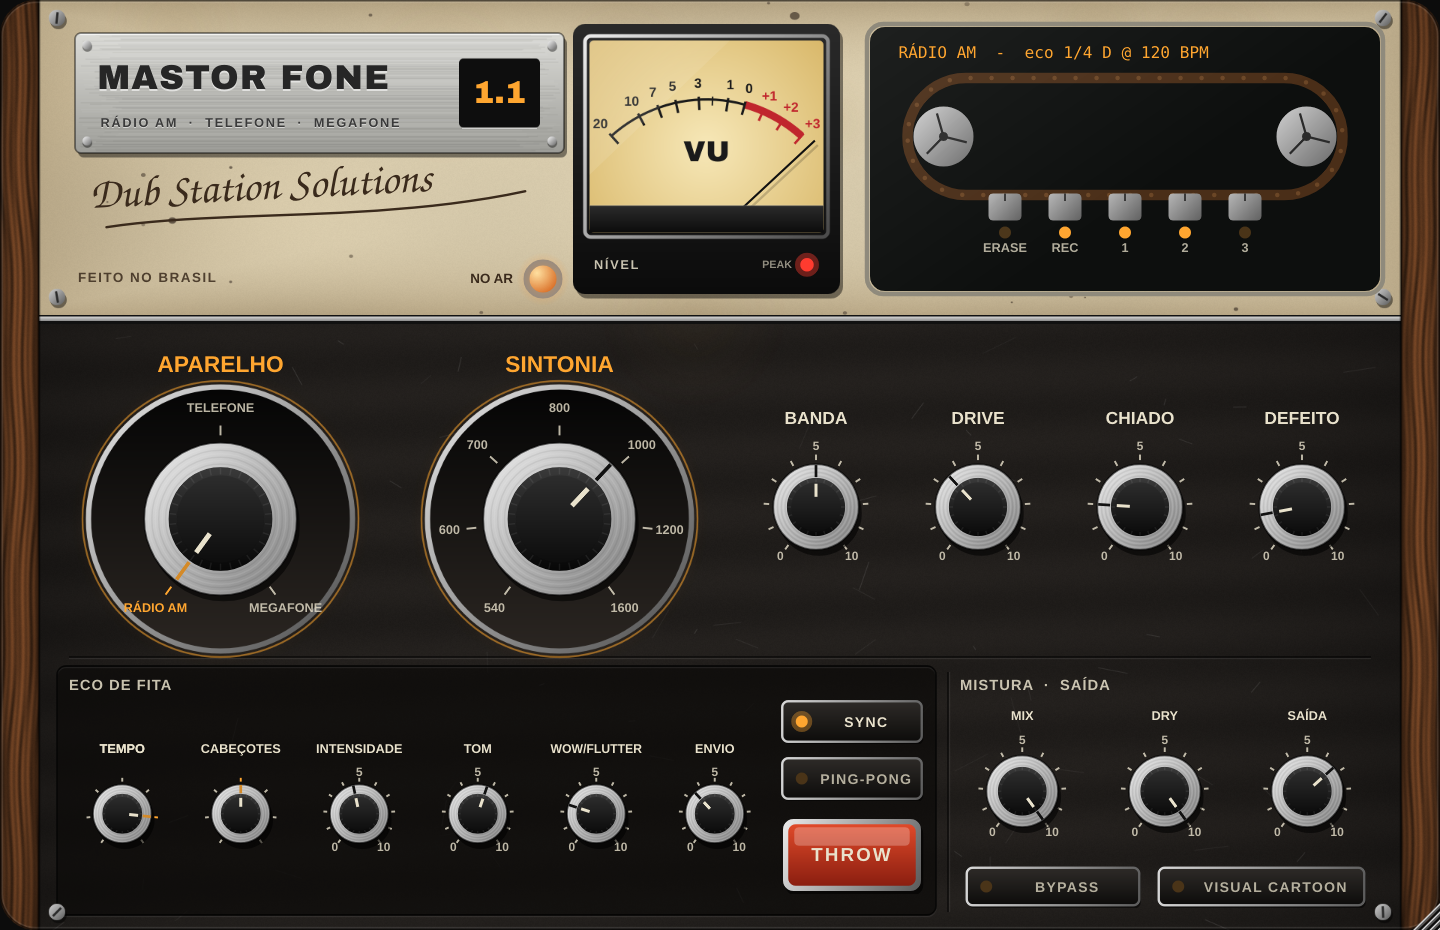
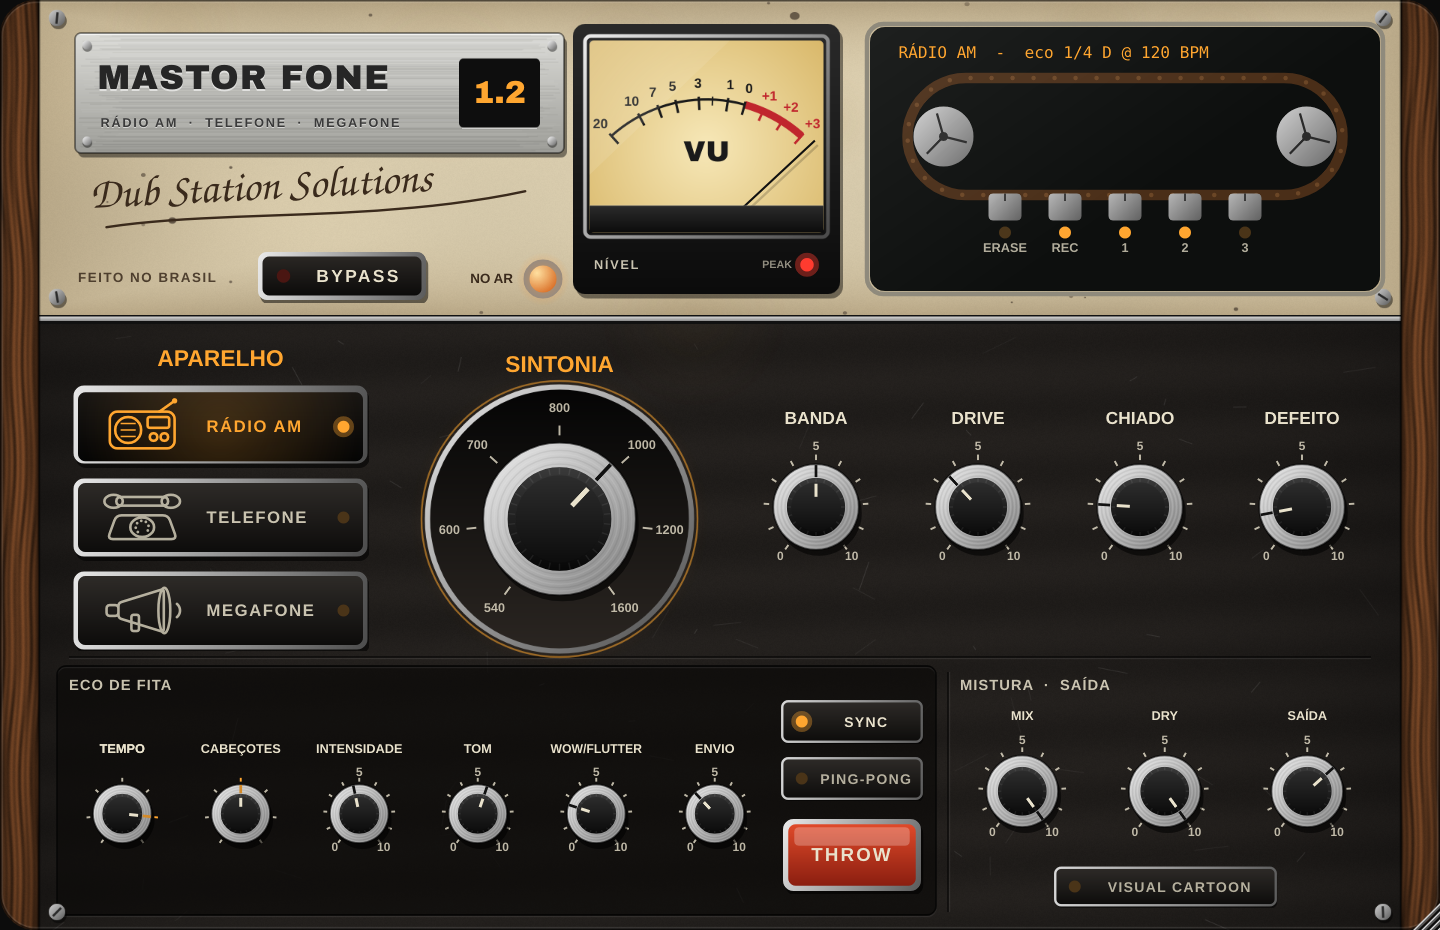
Mastor Fone 1.2: teclas dos aparelhos e BYPASS em destaque no visual Dub Station
No visual Dub Station, o seletor giratório de aparelho virou três teclas
clicáveis com o desenho de cada aparelho; a SINTONIA continua no dial de
rádio antigo, e o BYPASS foi para o painel de cima, acendendo vermelho.

Claude-Session: https://claude.ai/code/session_01DJAeyXvUbq8XtquW6CP987

diff --git a/site/index.html b/site/index.html
@@ -422,7 +422,7 @@
         <article class="card">
           <img class="shot" src="img/mastorfone.jpg" alt="Interface do Mastor Fone: gabinete de rádio de madeira em estilo cartoon, dial de ondas médias, desenhos de rádio, telefone e megafone, e eco de fita com bobinas" width="1400" height="786" loading="lazy">
           <div class="body">
-            <h3>Mastor Fone <small>1.1</small></h3>
+            <h3>Mastor Fone <small>1.2</small></h3>
             <p>Efeito para voz que imita rádio AM, telefone antigo e megafone, com o mesmo eco de fita do Big Knob. Dub Station Solutions.</p>
             <ul>
               <li>Rádio AM com válvula e chiado, telefone de central antiga e megafone estourado</li>

diff --git a/MastorFone/Source/StationPanel.cpp b/MastorFone/Source/StationPanel.cpp
@@ -101,6 +101,32 @@ void StationLookAndFeel::drawRotarySlider (Graphics& g, int x, int y, int w, int
 
 void StationLookAndFeel::drawToggleButton (Graphics& g, ToggleButton& b, bool over, bool down)
 {
+    if ((bool) b.getProperties()["big"])
+    {
+        // tecla grande de BYPASS: acende vermelho quando o efeito está desligado
+        const bool on = b.getToggleState();
+        auto r = b.getLocalBounds().toFloat().reduced (2.0f);
+        g.setColour (Colours::black.withAlpha (0.5f));
+        g.fillRoundedRectangle (r.translated (1.5f, 3.0f), 6.0f);
+        g.setGradientFill (ColourGradient (Colour (0xffeaeaea), r.getX(), r.getY(), Colour (0xff5a5a5a), r.getRight(), r.getBottom(), false));
+        g.fillRoundedRectangle (r, 6.0f);
+        auto cap = r.reduced (3.0f).translated (0, down ? 1.0f : 0.0f);
+        g.setGradientFill (ColourGradient (Colour (on ? 0xffe0442a : (over ? 0xff36322e : 0xff2a2724)), 0, cap.getY(),
+                                           Colour (on ? 0xff7a1a0e : 0xff0c0b0a), 0, cap.getBottom(), false));
+        g.fillRoundedRectangle (cap, 4.5f);
+        if (on)
+        {
+            g.setColour (Colour (0x55ff6a3a));
+            g.drawRoundedRectangle (r.expanded (2.0f), 8.0f, 3.0f);
+        }
+        const auto lp = Point<float> (cap.getX() + 14.0f, cap.getCentreY());
+        g.setColour (on ? Colour (0xffffd0a0) : Colour (0xff4a1612));
+        g.fillEllipse (lp.x - 4.5f, lp.y - 4.5f, 9, 9);
+        g.setColour (cream);
+        g.setFont (bold (13.0f).withExtraKerningFactor (0.12f));
+        g.drawText (b.getButtonText(), cap.withTrimmedLeft (22.0f), Justification::centred);
+        return;
+    }
     // tecla de baquelite com lâmpada âmbar, como as dos cabeçotes do Dub Station
     const bool on = b.getToggleState();
     auto r = b.getLocalBounds().toFloat().reduced (1.5f);
@@ -151,14 +177,137 @@ void StationLookAndFeel::drawButtonText (Graphics& g, TextButton& b, bool, bool 
 }
 
 //==============================================================================
+namespace
+{
+// desenho dos aparelhos em traço creme, como serigrafia no painel
+void drawLineIcon (Graphics& g, int which, Rectangle<float> r, Colour c)
+{
+    const auto o = r.getCentre();
+    const float s = jmin (r.getWidth() / 80.0f, r.getHeight() / 44.0f);
+    auto P = [&] (float x, float y) { return Point<float> (o.x + x * s, o.y + y * s); };
+    auto R = [&] (float x, float y, float w, float h) { return Rectangle<float> (o.x + x * s, o.y + y * s, w * s, h * s); };
+    const PathStrokeType st (2.0f * s + 0.3f, PathStrokeType::curved, PathStrokeType::rounded);
+    g.setColour (c);
+    Path p;
+    if (which == 0)
+    {
+        p.addRoundedRectangle (R (-30, -14, 60, 34), 7.0f * s);
+        p.addEllipse (R (-25, -9, 24, 24));
+        p.addRoundedRectangle (R (5, -9, 20, 10), 2.0f * s);
+        p.addEllipse (R (7, 6, 7, 7)); p.addEllipse (R (17, 6, 7, 7));
+        p.startNewSubPath (P (16, -14)); p.lineTo (P (30, -24));
+        g.strokePath (p, st);
+        for (int k = 0; k < 3; ++k) g.drawLine (Line<float> (P (-20, -3 + (float) k * 6), P (-6, -3 + (float) k * 6)), 1.4f * s);
+        g.fillEllipse (Rectangle<float> (5 * s, 5 * s).withCentre (P (30, -24)));
+    }
+    else if (which == 1)
+    {
+        Path base;
+        base.startNewSubPath (P (-24, -2)); base.lineTo (P (24, -2)); base.lineTo (P (32, 20)); base.lineTo (P (-32, 20)); base.closeSubPath();
+        p.addPath (base.createPathWithRoundedCorners (5.0f * s));
+        p.addEllipse (R (-11, 0, 22, 18));
+        p.addRoundedRectangle (R (-24, -19, 48, 8), 4.0f * s);
+        p.addEllipse (R (-35, -21, 17, 12)); p.addEllipse (R (18, -21, 17, 12));
+        g.strokePath (p, st);
+        for (int k = 0; k < 7; ++k)
+            g.fillEllipse (Rectangle<float> (2.6f * s, 2.6f * s).withCentre (P (0, 9).getPointOnCircumference (6.0f * s, -2.4f + (float) k * 0.75f)));
+    }
+    else
+    {
+        Path cone;
+        cone.startNewSubPath (P (-22, -7)); cone.lineTo (P (20, -20)); cone.lineTo (P (20, 20)); cone.lineTo (P (-22, 7)); cone.closeSubPath();
+        p.addPath (cone.createPathWithRoundedCorners (3.0f * s));
+        p.addEllipse (R (15, -21, 11, 42));
+        p.addRoundedRectangle (R (-33, -5, 11, 10), 3.0f * s);
+        p.addRoundedRectangle (R (-10, 4, 7, 15), 2.0f * s);
+        p.addCentredArc (o.x + 27.0f * s, o.y, 8.0f * s, 8.0f * s, 0.0f, 0.7f, 2.45f, true);
+        g.strokePath (p, st);
+    }
+}
+} // namespace
+
+StationModeKeys::StationModeKeys (RangedAudioParameter& p)
+    : att (p, [this] (float v) { mode = jlimit (0, 2, roundToInt (v)); repaint(); })
+{
+    att.sendInitialUpdate();
+    setMouseCursor (MouseCursor::PointingHandCursor);
+}
+
+Rectangle<float> StationModeKeys::key (int i) const
+{
+    auto r = getLocalBounds().toFloat().withTrimmedTop (32.0f);
+    const float gap = 8.0f, h = (r.getHeight() - 2 * gap) / 3.0f;
+    return { r.getX(), r.getY() + (float) i * (h + gap), r.getWidth(), h };
+}
+
+void StationModeKeys::mouseDown (const MouseEvent& e)
+{
+    for (int i = 0; i < 3; ++i)
+        if (key (i).contains (e.position))
+            att.setValueAsCompleteGesture ((float) i);
+}
+
+void StationModeKeys::mouseMove (const MouseEvent& e)
+{
+    int h = -1;
+    for (int i = 0; i < 3; ++i) if (key (i).contains (e.position)) h = i;
+    if (h != hover) { hover = h; repaint(); }
+}
+
+void StationModeKeys::mouseExit (const MouseEvent&) { hover = -1; repaint(); }
+
+void StationModeKeys::paint (Graphics& g)
+{
+    g.setColour (amber);
+    g.setFont (bold (17.0f));
+    g.drawText ("APARELHO", getLocalBounds().toFloat().withHeight (30.0f), Justification::centred);
+
+    static const char* names[] = { "R\xc3\x81" "DIO AM", "TELEFONE", "MEGAFONE" };
+    for (int i = 0; i < 3; ++i)
+    {
+        const bool on = i == mode, over = i == hover;
+        auto r = key (i).reduced (1.0f);
+        // sombra + aro cromado
+        g.setColour (Colours::black.withAlpha (0.55f));
+        g.fillRoundedRectangle (r.translated (1.5f, 3.0f), 7.0f);
+        g.setGradientFill (ColourGradient (Colour (0xffe8e8e8), r.getX(), r.getY(), Colour (0xff4c4c4c), r.getRight(), r.getBottom(), false));
+        g.fillRoundedRectangle (r, 7.0f);
+        // tecla de baquelite (afundada quando escolhida)
+        auto cap = r.reduced (3.0f).translated (0, on ? 1.5f : 0.0f);
+        g.setGradientFill (ColourGradient (Colour (on ? 0xff1a1714 : (over ? 0xff3a3633 : 0xff2e2b28)), 0, cap.getY(),
+                                           Colour (on ? 0xff050505 : 0xff0d0c0b), 0, cap.getBottom(), false));
+        g.fillRoundedRectangle (cap, 5.0f);
+        if (on)
+        {
+            g.setGradientFill (ColourGradient (amber.withAlpha (0.20f), cap.getCentreX(), cap.getCentreY(), amber.withAlpha (0.0f), cap.getRight(), cap.getCentreY(), true));
+            g.fillRoundedRectangle (cap, 5.0f);
+        }
+        // desenho do aparelho + nome + lâmpada
+        auto iconArea = cap.withWidth (cap.getHeight() * 1.6f).reduced (8.0f, 6.0f).translated (6.0f, 0);
+        drawLineIcon (g, i, iconArea, on ? amber : cream.withAlpha (over ? 0.95f : 0.75f));
+        auto txt = cap.withTrimmedLeft (iconArea.getRight() - cap.getX() + 14.0f).withTrimmedRight (22.0f);
+        g.setColour (on ? amber : cream.withAlpha (0.85f));
+        g.setFont (bold (12.5f).withExtraKerningFactor (0.08f));
+        g.drawText (String::fromUTF8 (names[i]), txt, Justification::centredLeft);
+        const auto lp = Point<float> (cap.getRight() - 13.0f, cap.getCentreY());
+        if (on)
+        {
+            g.setColour (amber.withAlpha (0.35f));
+            g.fillEllipse (lp.x - 7, lp.y - 7, 14, 14);
+        }
+        g.setColour (on ? amber : lampOff);
+        g.fillEllipse (lp.x - 4, lp.y - 4, 8, 8);
+    }
+}
+
+//==============================================================================
 StationPanel::StationPanel (RadioFoneProcessor& p)
-    : proc (p), throwBtn ("THROW", p.apvts.getParameter ("throw"))
+    : proc (p), modeKeys (*p.apvts.getParameter ("mode")), throwBtn ("THROW", p.apvts.getParameter ("throw"))
 {
     setLookAndFeel (&lnf);
     setSize (kW, kH);
 
-    setupKnob (mode,   "mode",   "APARELHO", 0);
-    mode.slider.getProperties().set ("scaleLabels", String::fromUTF8 ("RÁDIO AM|TELEFONE|MEGAFONE"));
+    addAndMakeVisible (modeKeys);
     setupKnob (tune,   "tune",   "SINTONIA", 0);
     tune.slider.getProperties().set ("scaleLabels", "540|600|700|800|1000|1200|1600");
     setupKnob (band,   "band",   "BANDA", 1);
@@ -180,6 +329,7 @@ StationPanel::StationPanel (RadioFoneProcessor& p)
     setupToggle (echoSync, "echoSync", "SYNC");
     setupToggle (echoPP, "echoPP", "PING-PONG");
     setupToggle (bypassBtn, "bypass", "BYPASS");
+    bypassBtn.button.getProperties().set ("big", true);
     addAndMakeVisible (throwBtn);
     throwBtn.setTooltip ("Segure para jogar a voz no eco");
 
@@ -260,7 +410,7 @@ void StationPanel::resized()
     auto rowB = rows;
 
     // linha A: APARELHO e SINTONIA gigantes, depois os quatro médios
-    place (mode, rowA.removeFromLeft (226), 34);
+    modeKeys.setBounds (rowA.removeFromLeft (226).reduced (14, 2));
     place (tune, rowA.removeFromLeft (226), 34);
     const int wm = 108;
     rowA.removeFromLeft ((rowA.getWidth() - 4 * wm) / 2);
@@ -294,9 +444,9 @@ void StationPanel::resized()
     const int ws = ra.getWidth() / 3;
     for (auto* k : { &mix, &dry, &out })
         place (*k, ra.removeFromLeft (ws), 15);
-    bottom = bottom.withSizeKeepingCentre (268, 28);
-    bypassBtn.button.setBounds (bottom.removeFromLeft (118));
-    skinBtn.setBounds (bottom.removeFromRight (140));
+    skinBtn.setBounds (bottom.withSizeKeepingCentre (150, 28));
+    // BYPASS grande no painel de cima, entre "FEITO NO BRASIL" e a lâmpada NO AR
+    bypassBtn.button.setBounds ((int) plateArea.getX() + 120, topPanel.getBottom() - 46, 116, 36);
 
     renderBackground();
 }
@@ -304,14 +454,16 @@ void StationPanel::resized()
 //==============================================================================
 String StationPanel::statusText()
 {
-    Knob* all[] = { &mode, &tune, &band, &drive, &noise, &defect, &echoDiv, &echoMs, &echoHeads,
+    if (modeKeys.getHover() >= 0)
+        return String::fromUTF8 ("APARELHO:  clique para escolher");
+    Knob* all[] = { &tune, &band, &drive, &noise, &defect, &echoDiv, &echoMs, &echoHeads,
                     &echoFb, &echoTone, &echoWow, &echoSend, &mix, &dry, &out };
     for (auto* k : all)
         if (k->slider.isVisible() && k->slider.isMouseOverOrDragging())
             return k->name + ":  " + k->slider.getTextFromValue (k->slider.getValue());
 
     static const char* modes[] = { "R\xc3\x81" "DIO AM", "TELEFONE", "MEGAFONE" };
-    String t = String::fromUTF8 (modes[jlimit (0, 2, (int) mode.slider.getValue())]) + "  -  eco ";
+    String t = String::fromUTF8 (modes[jlimit (0, 2, modeKeys.getMode())]) + "  -  eco ";
     if (echoSync.button.getToggleState())
         t << RadioFoneProcessor::divisionNames()[jlimit (0, 6, (int) echoDiv.slider.getValue())]
           << " @ " << roundToInt (proc.getDisplayBpm()) << " BPM";
@@ -367,9 +519,9 @@ void StationPanel::paint (Graphics& g)
     const auto inset = Rectangle<float> (pl.getRight() - 70, pl.getY() + 17, 54, 46);
     g.setFont (toon::title (23.0f));
     g.setColour (amber.withAlpha (0.35f));
-    g.drawText ("1.1", inset.expanded (1.0f), Justification::centred);
+    g.drawText ("1.2", inset.expanded (1.0f), Justification::centred);
     g.setColour (amber);
-    g.drawText ("1.1", inset, Justification::centred);
+    g.drawText ("1.2", inset, Justification::centred);
 
     // assinatura "Dub Station Solutions" em tinta marrom, com traço
     {
@@ -713,7 +865,7 @@ void StationPanel::renderBackground()
     g.drawRoundedRectangle (plate, 6.0f, 1.0f);
 
     // poços destacados atrás de APARELHO e SINTONIA: rebaixo + aro cromado + brilho âmbar
-    for (auto* k : { &mode, &tune })
+    for (auto* k : { &tune })
     {
         const auto kb = k->slider.getBounds().toFloat();
         const auto c = kb.getCentre();

diff --git a/MastorFone/Source/PluginEditor.h b/MastorFone/Source/PluginEditor.h
@@ -142,6 +142,23 @@ public:
     void drawButtonText (juce::Graphics&, juce::TextButton&, bool, bool) override;
 };
 
+// Teclas com os desenhos dos aparelhos (visual Dub Station): clique para escolher
+class StationModeKeys : public juce::Component
+{
+public:
+    explicit StationModeKeys (juce::RangedAudioParameter&);
+    void paint (juce::Graphics&) override;
+    void mouseDown (const juce::MouseEvent&) override;
+    void mouseMove (const juce::MouseEvent&) override;
+    void mouseExit (const juce::MouseEvent&) override;
+    int getMode() const { return mode; }
+    int getHover() const { return hover; }
+private:
+    juce::Rectangle<float> key (int i) const;
+    juce::ParameterAttachment att;
+    int mode = 0, hover = -1;
+};
+
 class StationPanel : public juce::Component, private juce::Timer
 {
 public:
@@ -181,7 +198,8 @@ private:
     RadioFoneProcessor& proc;
     StationLookAndFeel lnf;
 
-    Knob mode, tune, band, drive, noise, defect;
+    StationModeKeys modeKeys;
+    Knob tune, band, drive, noise, defect;
     Knob echoDiv, echoMs, echoHeads, echoFb, echoTone, echoWow, echoSend;
     Knob mix, dry, out;
     Toggle echoSync, echoPP, bypassBtn;

diff --git a/README.md b/README.md
@@ -8,7 +8,7 @@ Plugins de dub por **DubMastor**, em VST3 (Windows e Mac) e AU (Mac). Feitos e t
 |---|---|---|---|---|
 | **DubMastor Big Knob 3.1** | Estação de dub: filtro big knob estilo King Tubby, eco de fita com cabeçotes, sirene de dub, VUs e maximizer | [⬇ macOS](https://github.com/dubmastor/DubMastor-DubStation-/releases/latest/download/DubMastorBigKnob-macOS.zip) | [⬇ Windows](https://github.com/dubmastor/DubMastor-DubStation-/releases/latest/download/DubMastorBigKnob-Windows.zip) | [BigKnob/](BigKnob/) |
 | **Mastor Roots Keys 1.2** | Instrumento: piano estilo Korg M1 e órgão estilo Hammond com Leslie, eco de fita FitaEco, maximizer, VUs e teclado que acende com o MIDI | [⬇ macOS](https://github.com/dubmastor/DubMastor-DubStation-/releases/latest/download/MastorRootsKeys-macOS.zip) | [⬇ Windows](https://github.com/dubmastor/DubMastor-DubStation-/releases/latest/download/MastorRootsKeys-Windows.zip) | [RootsKeys/](RootsKeys/) |
-| **Mastor Fone 1.1** | Efeito de voz: rádio AM, telefone antigo e megafone, com o eco de fita do Big Knob. Visual cartoon ou Dub Station | [⬇ macOS](https://github.com/dubmastor/DubMastor-DubStation-/releases/latest/download/MastorFone-macOS.zip) | [⬇ Windows](https://github.com/dubmastor/DubMastor-DubStation-/releases/latest/download/MastorFone-Windows.zip) | [MastorFone/](MastorFone/) |
+| **Mastor Fone 1.2** | Efeito de voz: rádio AM, telefone antigo e megafone, com o eco de fita do Big Knob. Visual cartoon ou Dub Station | [⬇ macOS](https://github.com/dubmastor/DubMastor-DubStation-/releases/latest/download/MastorFone-macOS.zip) | [⬇ Windows](https://github.com/dubmastor/DubMastor-DubStation-/releases/latest/download/MastorFone-Windows.zip) | [MastorFone/](MastorFone/) |
 | **Dub Station 2.1 (FitaEco TE-12)** | Eco de fita de 3 cabeças + reverb de mola, com EQ gráfico | [⬇ macOS](https://github.com/dubmastor/DubMastor-DubStation-/releases/latest/download/DubStation21-macOS.zip) | [⬇ Windows](https://github.com/dubmastor/DubMastor-DubStation-/releases/latest/download/DubStation21-Windows.zip) | [DubStation21/](DubStation21/) |
 
 Todos os downloads ficam na página de **[Releases](https://github.com/dubmastor/DubMastor-DubStation-/releases/latest)**. Não precisa de conta no GitHub para baixar.

diff --git a/MastorFone/README.md b/MastorFone/README.md
@@ -1,4 +1,4 @@
-# Mastor Fone 1.1 — voz de aparelho antigo 📻☎📣
+# Mastor Fone 1.2 — voz de aparelho antigo 📻☎📣
 
 *Dub Station Solutions*
 
@@ -12,7 +12,7 @@ Formatos: **VST3** (Windows/macOS, para o Cubase), **AU** (macOS) e **Standalone
 ## Dois visuais
 O botão **VISUAL** troca a aparência na hora, e a escolha fica salva no projeto do Cubase:
 - **Cartoon** (padrão): gabinete de rádio de madeira, estilo desenho animado antigo
-- **Dub Station**: o mesmo acabamento do Dub Station 2.1, com esmalte creme, plaqueta de alumínio, VU, janela da fita e botões de alumínio
+- **Dub Station**: o mesmo acabamento do Dub Station 2.1, com esmalte creme, plaqueta de alumínio, VU, janela da fita e botões de alumínio. Os aparelhos são teclas com o desenho de cada um (clique para escolher), a SINTONIA é um dial de rádio antigo (540 a 1600 kHz) e o **BYPASS** fica em destaque no painel de cima, acendendo vermelho quando o efeito está desligado
 
 ![Visual cartoon](docs/interface.png)
 
